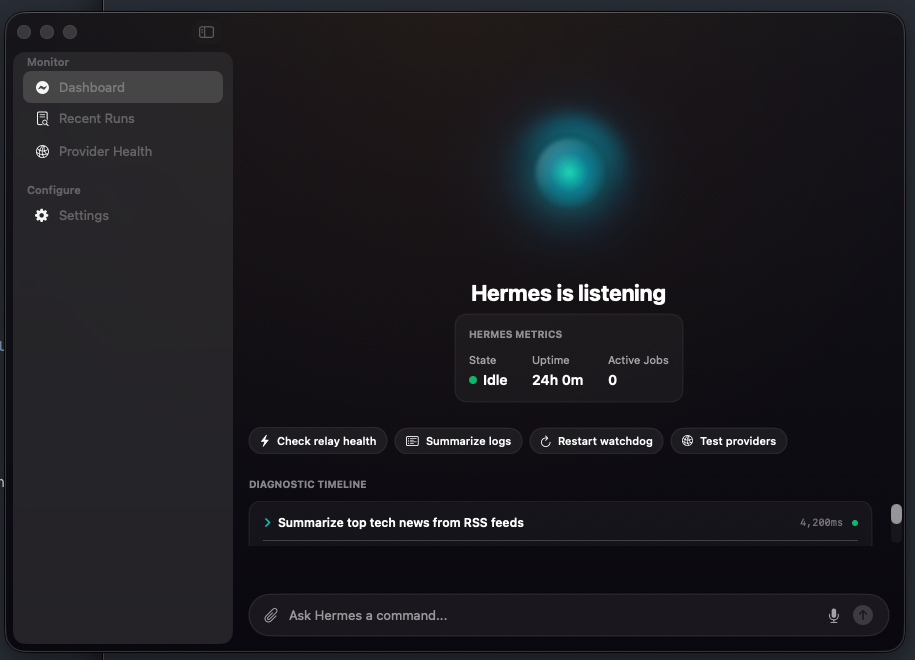
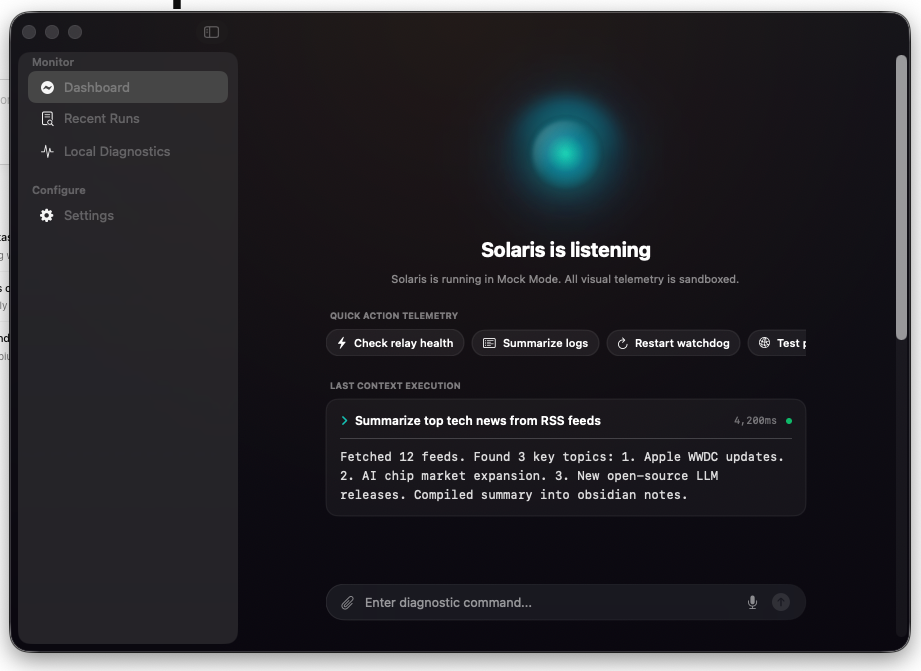
docs: add polished dashboard runtime screenshot

diff --git a/docs/visual-parity.md b/docs/visual-parity.md
@@ -221,7 +221,20 @@ This screenshot should be used to guide future replacement of concept mockups on
 *   **Dashboard Parity Achieved:** Evolving the Dashboard to match visual specifications is complete. No remaining layout parity gaps exist.
 
 ### 💡 Visual Compromises & Technical Decisions
-*   **Manual Screen Capturing:** To complete visual check-pointing for Batch 4, a fresh actual runtime screenshot of the polished Dashboard should be manually captured next.
+*   **Manual Screen Capturing:** To complete visual check-pointing for Batch 4, a fresh actual runtime screenshot of the polished Dashboard has been captured and validated.
+
+---
+
+## Batch 4 Runtime Screenshot Captured
+
+Actual runtime screenshot has now been captured for the polished Dashboard interface:
+- docs/screenshots/runtime-dashboard.png
+
+This completes the runtime screenshot checkpoint for the major v0.2 visual polish areas:
+- Dashboard
+- Local Diagnostics
+- Settings
+
 
 
 